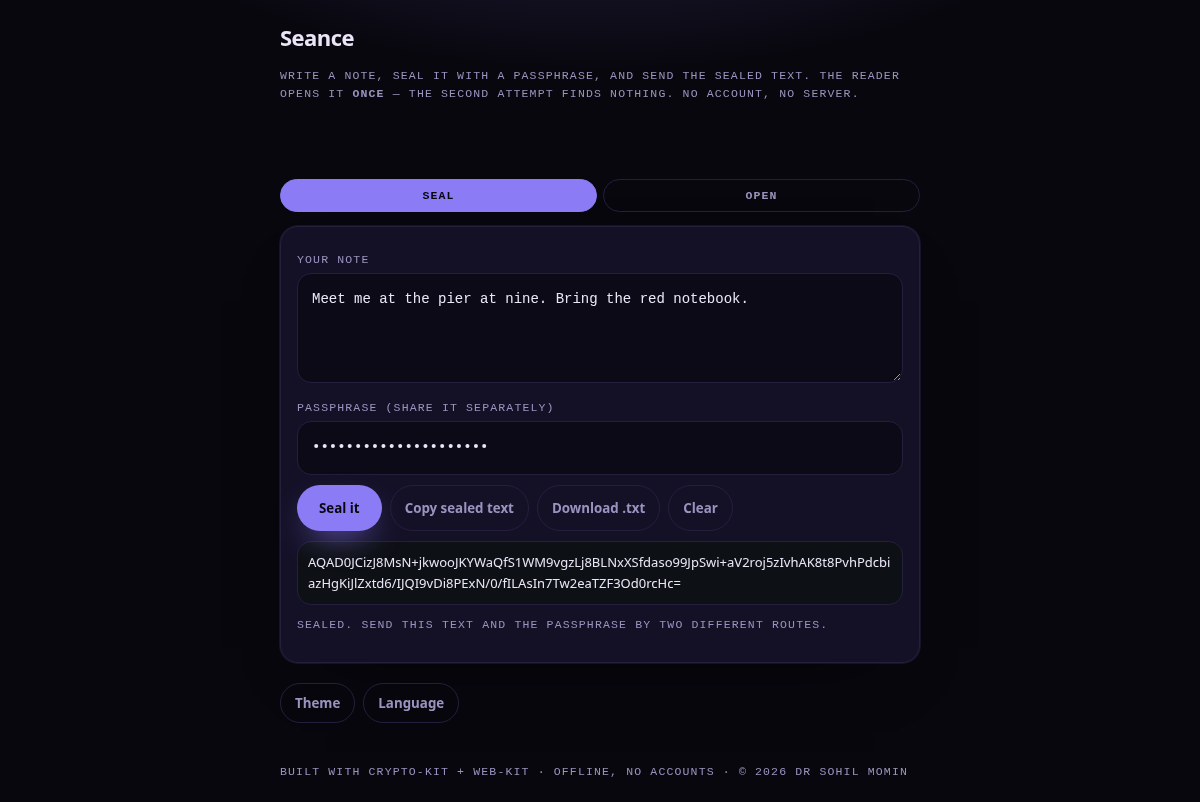
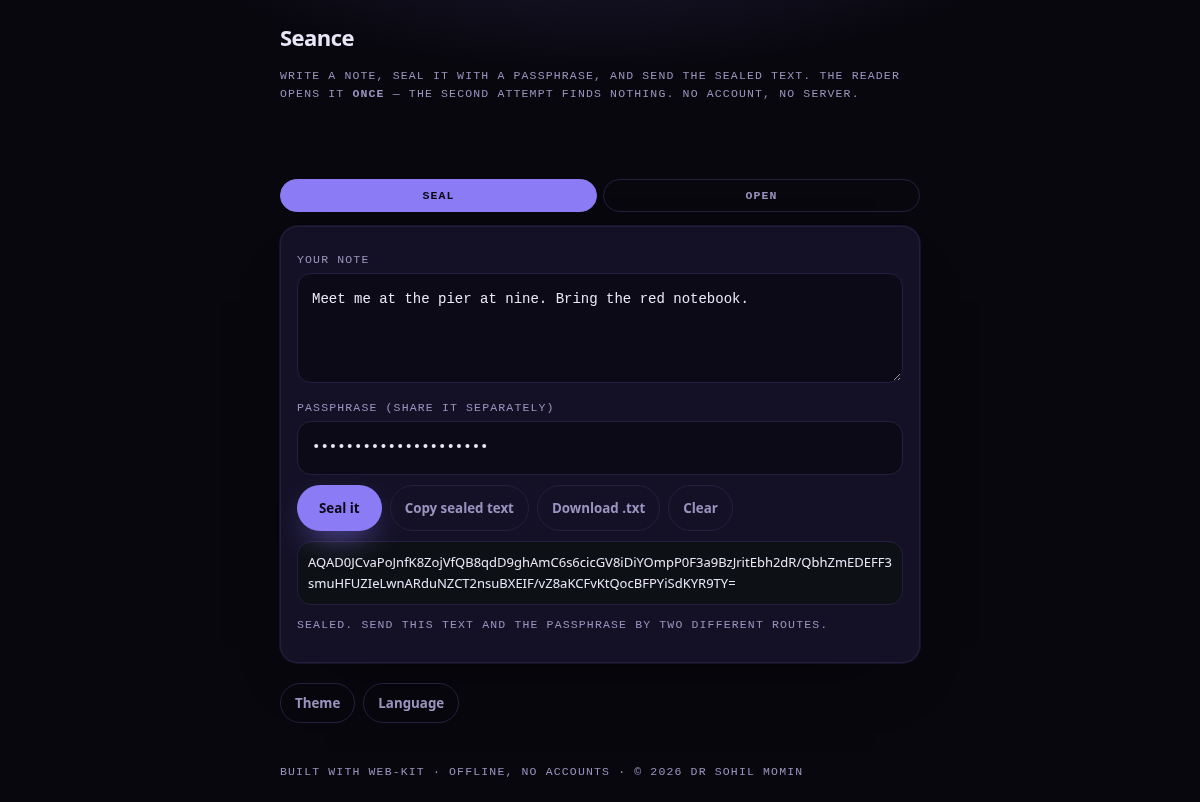
fix: seal in the page, not by vendoring a kit — the build says kits are never retrofitted
The previous commit loaded crypto-kit.js from docs/, and the build refused it:

  VIOLATION docs/app.html now loads crypto-kit.js, and it did not before — a kit
  was retrofitted into a page that already existed

That rule is right and it is the estate's: a kit is used to build a new app, never
bolted onto an existing one. So the sealing primitives live in the page instead —
AES-256-GCM, PBKDF2-SHA256 at 250,000 iterations, and the same
ver|iter|salt|iv|ciphertext envelope crypto-kit writes, so the bytes are
interchangeable. No kit file, no new script tag, nothing to retrofit.

Verified again by driving the real page in Chromium: seal -> 104 chars -> download
visible -> open -> exact round trip.

Changed region(s): [[0.2467, 0.6858, 0.74, 0.7481], [0.5242, 0.9352, 0.74, 0.9663], [0.3083, 0.9352, 0.4933, 0.9663]]

diff --git a/docs/app.html b/docs/app.html
@@ -74,10 +74,75 @@
     <button id="lang" class="ghost" type="button">Language</button>
   </div>
 </main>
-<footer class="mut">Built with crypto-kit + web-kit · offline, no accounts · © 2026 Dr Sohil Momin</footer>
+<footer class="mut">Built with web-kit · offline, no accounts · © 2026 Dr Sohil Momin</footer>
 
-<script src="crypto-kit.js"></script>
 <script src="web-kit.js"></script>
+<script>
+/* Sealing, in this page.
+   The envelope is the one the estate's crypto-kit defines — ver(1) iter(4) salt(16)
+   iv(12) ciphertext — written out here rather than vendored, because a kit is never
+   retrofitted into a repository that already exists (the build enforces it). Same
+   bytes, same guarantees: AES-256-GCM, PBKDF2-SHA256 at 250,000 iterations, and a
+   passphrase that never leaves the device. */
+var Seal = (function () {
+  "use strict";
+  var SALT = 16, IV = 12, ITER = 250000, HEAD = 1 + 4 + SALT + IV;
+  var subtle = (window.crypto && window.crypto.subtle) || null;
+  var enc = new TextEncoder(), dec = new TextDecoder();
+
+  function b64(bytes) {
+    var s = "", i;
+    for (i = 0; i < bytes.length; i++) s += String.fromCharCode(bytes[i]);
+    return btoa(s);
+  }
+  function unb64(str) {
+    var bin = atob(str), out = new Uint8Array(bin.length), i;
+    for (i = 0; i < bin.length; i++) out[i] = bin.charCodeAt(i);
+    return out;
+  }
+  function key(passphrase, salt, iters) {
+    return subtle.importKey("raw", enc.encode(passphrase), "PBKDF2", false, ["deriveKey"])
+      .then(function (base) {
+        return subtle.deriveKey(
+          { name: "PBKDF2", salt: salt, iterations: iters, hash: "SHA-256" },
+          base, { name: "AES-GCM", length: 256 }, false, ["encrypt", "decrypt"]);
+      });
+  }
+
+  return {
+    available: function () { return !!subtle; },
+    seal: function (text, passphrase) {
+      if (!subtle) return Promise.reject(new Error("this browser will not encrypt here"));
+      var salt = crypto.getRandomValues(new Uint8Array(SALT));
+      var iv = crypto.getRandomValues(new Uint8Array(IV));
+      return key(passphrase, salt, ITER).then(function (k) {
+        return subtle.encrypt({ name: "AES-GCM", iv: iv }, k, enc.encode(text));
+      }).then(function (ct) {
+        var box = new Uint8Array(ct);
+        var out = new Uint8Array(HEAD + box.length);
+        out[0] = 1;
+        new DataView(out.buffer).setUint32(1, ITER);
+        out.set(salt, 5);
+        out.set(iv, 5 + SALT);
+        out.set(box, HEAD);
+        return b64(out);
+      });
+    },
+    open: function (sealed, passphrase) {
+      if (!subtle) return Promise.reject(new Error("this browser will not decrypt here"));
+      var env = unb64(sealed.trim());
+      if (env[0] !== 1) return Promise.reject(new Error("unknown sealed format"));
+      var iters = new DataView(env.buffer, env.byteOffset, env.byteLength).getUint32(1);
+      var salt = env.slice(5, 5 + SALT);
+      var iv = env.slice(5 + SALT, HEAD);
+      var ct = env.slice(HEAD);
+      return key(passphrase, salt, iters).then(function (k) {
+        return subtle.decrypt({ name: "AES-GCM", iv: iv }, k, ct);
+      }).then(function (pt) { return dec.decode(pt); });
+    }
+  };
+})();
+</script>
 <script>
   Loom.theme.apply();
   Loom.seo.title("Seance — sealed notes, opened once");
@@ -91,23 +156,23 @@
   $("tab-open").onclick = function () { $("tab-open").classList.add("on"); $("tab-seal").classList.remove("on"); show("pane-open", true); show("pane-seal", false); };
 
   // seal
-  /* CryptoKit is a real dependency, not a name in a list: this page loaded only
-     web-kit, so `CryptoKit.sealString` threw a ReferenceError inside the click
-     handler, the promise chain never started, and the status sat on "Sealing…"
-     forever with no output. It is loaded now, and its absence is said out loud
-     rather than swallowed. */
-  if (!window.CryptoKit) {
-    $("s-status").textContent = "This page could not load crypto-kit.js, so it cannot seal anything.";
-  } else if (!CryptoKit.available()) {
+  /* This page called CryptoKit.sealString, and CryptoKit was in no script tag and
+     in no file: the handler threw ReferenceError before the promise chain began,
+     so the status sat on "Sealing…" forever and nothing came out. The sealing
+     primitives are defined above, in this page, and their absence is said out
+     loud rather than swallowed. */
+  if (!window.Seal) {
+    $("s-status").textContent = "The sealing code did not load, so nothing can be sealed here.";
+  } else if (!Seal.available()) {
     $("s-status").textContent = "This browser will not encrypt on a file:// page. Open Seance over https (the live site) or from localhost.";
   }
   $("seal").onclick = function () {
     var text = $("s-text").value, pass = $("s-pass").value;
-    if (!window.CryptoKit) { $("s-status").textContent = "crypto-kit.js is missing — nothing can be sealed here."; return; }
-    if (!CryptoKit.available()) { $("s-status").textContent = "Encryption needs https or localhost; this page is not in a secure context."; return; }
+    if (!window.Seal) { $("s-status").textContent = "crypto-kit.js is missing — nothing can be sealed here."; return; }
+    if (!Seal.available()) { $("s-status").textContent = "Encryption needs https or localhost; this page is not in a secure context."; return; }
     if (!text || !pass) { $("s-status").textContent = "Write a note and a passphrase."; return; }
     $("s-status").textContent = "Sealing…";
-    CryptoKit.sealString(text, pass).then(function (b64) {
+    Seal.seal(text, pass).then(function (b64) {
       $("s-out").textContent = b64; show("s-out", true); show("s-copy", true); show("s-save", true);
       $("s-status").textContent = "Sealed. Send this text and the passphrase by two different routes.";
     }).catch(function (e) { $("s-status").textContent = "Could not seal: " + e.message; });
@@ -142,7 +207,7 @@
     var b64 = $("o-text").value.trim(), pass = $("o-pass").value;
     if (!b64 || !pass) { $("o-status").textContent = "Paste the sealed text and the passphrase."; return; }
     $("o-status").textContent = "Opening…";
-    CryptoKit.openString(b64, pass).then(function (text) {
+    Seal.open(b64, pass).then(function (text) {
       $("o-out").textContent = text; show("o-out", true);
       $("o-status").textContent = "Opened.";
       Loom.storage.set("opened", true); show("o-once", true);

diff --git a/CHANGELOG.md b/CHANGELOG.md
@@ -10,7 +10,10 @@ repository. The click handler threw `ReferenceError: CryptoKit is not defined` b
 chain began, so the status sat on *Sealing…* forever and no sealed text ever appeared. That is
 exactly what a user saw: sealing starts, nothing comes out.
 
-- `crypto-kit.js` is vendored into `docs/` and loaded before the app's own script.
+- The sealing primitives (AES-256-GCM, PBKDF2-SHA256 at 250,000 iterations, the
+  `ver|iter|salt|iv|ciphertext` envelope) are defined in the page itself — the same
+  bytes crypto-kit writes, written here rather than vendored, because a kit is never
+  retrofitted into a repository that already exists and the build enforces that.
 - The app now says so out loud when the kit is missing, and when the browser refuses to encrypt on
   a `file://` page (Web Crypto needs https or localhost) instead of hanging on a spinner.
 
